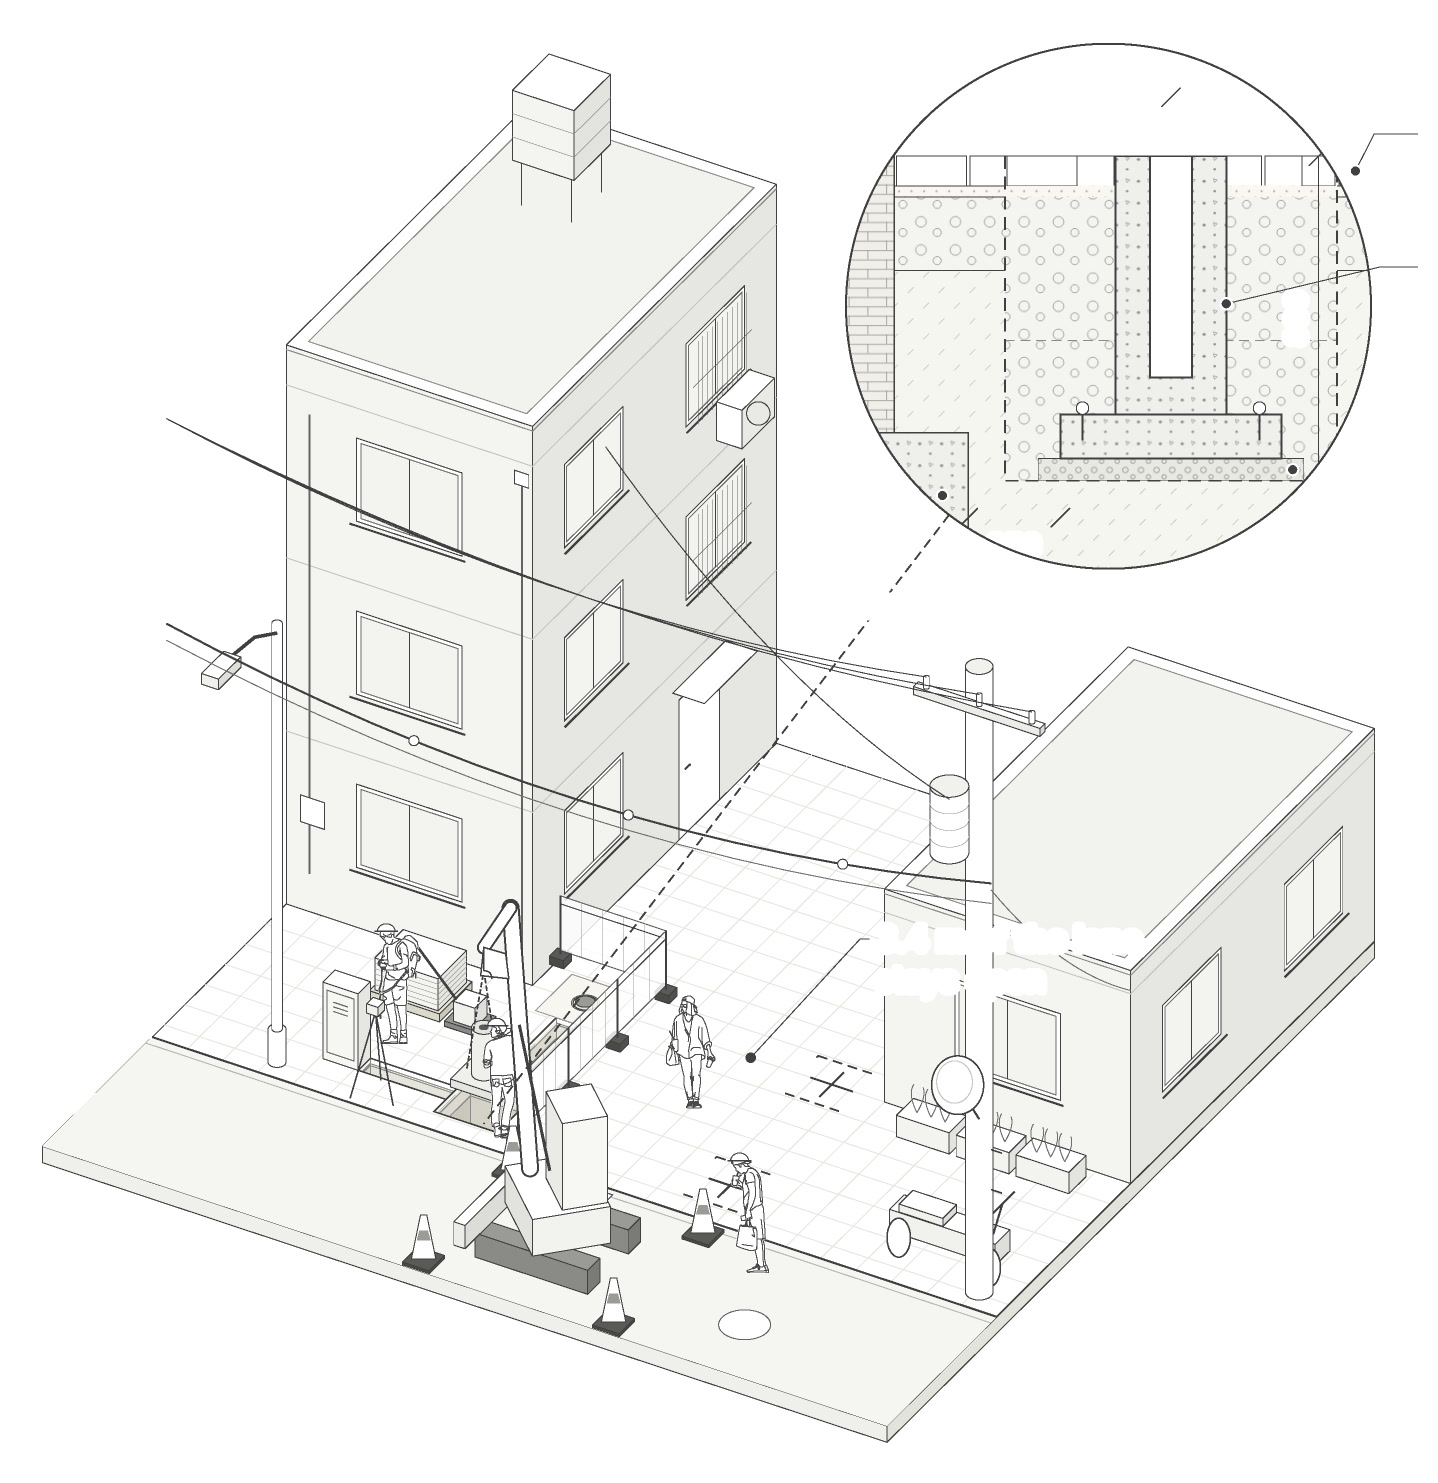
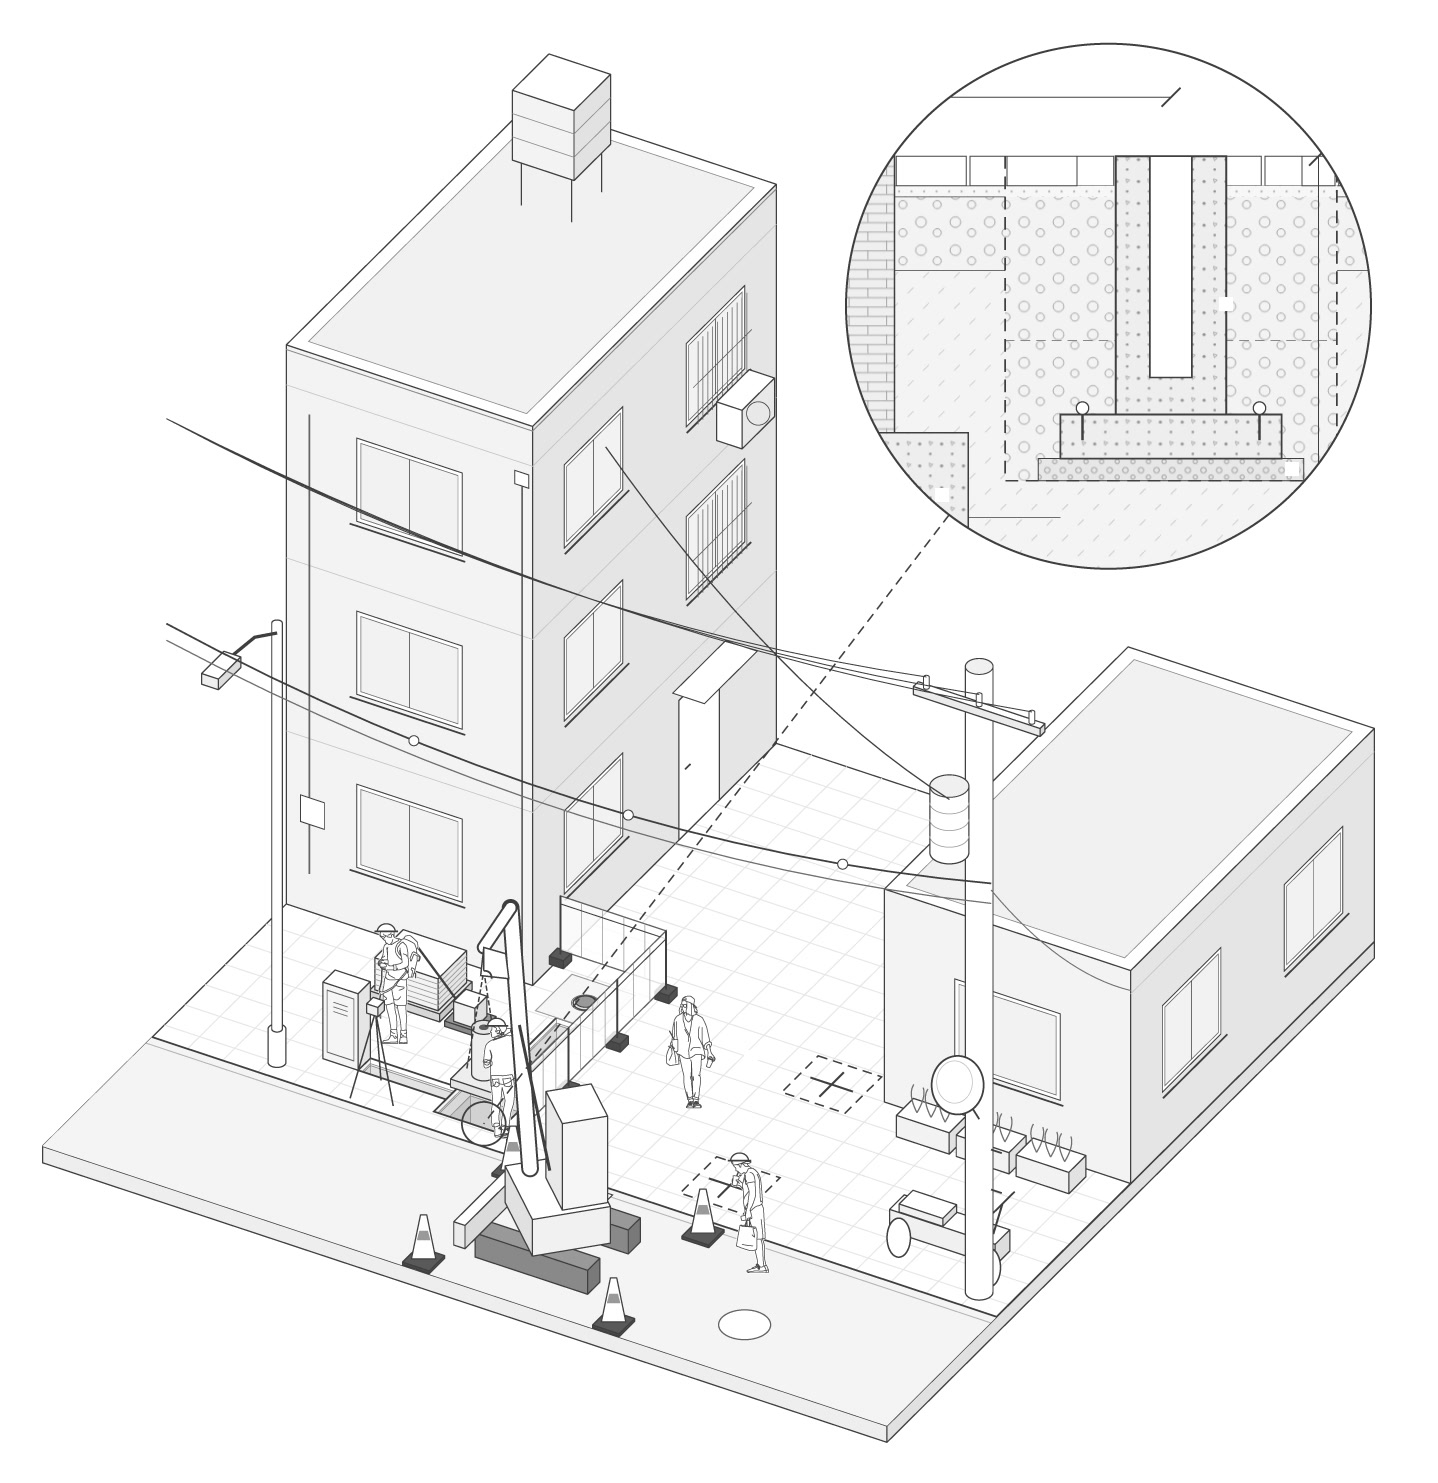
핀 #152–158 (SMART PIXEL) + 휴대폰 글자 축소: Four Modes 그림을 빼고 그 평면을 Gathering Rule 16기둥 엑소노 옆에 붙여 한 시뮬레이션으로(사양 표는 단계마다), 세 장면 한 줄, Plugged In 상세 섹션 삭제, 설치 6장면 원본에서 흰 글자 바탕·지시선·끝점 없이 다시 뽑고 조명색만 남김, 단면 A–A 80%, 휴대폰은 모든 --t-* 토큰 한 단계 작게

diff --git a/assets/js/data.js b/assets/js/data.js
@@ -1607,58 +1607,18 @@ const SITE = {
         "heading":"One Frame, Three Gestures","text":"The light column becomes architecture when it is joined. A lintel on two heads makes a gate; a row of gates under roof panels makes a corridor; a second tier on four cells makes a room. Same parts, same 2.5 m grid, all bolted, all removable — ten part types, about 2,300 pieces, nothing made for one place only.","images":[],"keyed":{"key":{"src":"assets/img/smart-pixel/frame-key.jpg","r":0.683,"caption":"The Pixel Frame — one 2.5 m cell, exploded in assembly order"},"items":[{"src":"assets/img/smart-pixel/lens-a.jpg","r":1,"t":"Head node and lintel joint","d":"Lintels slide over the arms, 2 × M12 each end; driver, board and cover lift out of the top.","x":83.3,"y":48.1,"notes":[["1","2 × M12 × 40"],["2","Lintel 100 × 160, LED + opal lens"],["3","Cover ø170, 4 × M6 pin-Torx"],["4","Gasket, EPDM"],["5","Controller + Bluetooth LE 5"],["6","Driver 30 W, 24 V"],["7","Arm 92 × 152, M12 bosses"],["8","Radar 24 GHz"]]},{"src":"assets/img/smart-pixel/lens-b.jpg","r":1,"t":"Light column","d":"Core, two LED lines, opal diffuser and mask; the diffuser slides off once the head is off.","x":64.8,"y":72.2,"notes":[["1","Mask, 180°"],["2","End ring"],["3","Spigot ø93, 2 × M8"],["4","Core ø101.6 × 4"],["5","Diffuser ø150, PC opal"],["6","LED 24 V, two lines"]]},{"src":"assets/img/smart-pixel/lens-c.jpg","r":1,"t":"Ground connection","d":"Plug, collar and lock pin on the cast-in sleeve; the socket stays when the pixel leaves.","x":64.8,"y":86.5,"notes":[["1","Lock pin M12 × 110"],["2","Collar ø170, hatch, QR"],["3","Plug IP68, 3-pole"],["4","Paving 200 × 100"],["5","Sleeve ø114.3"],["6","Socket shaft ø300"]]}]}
       },
       {
-        heading: "Point, Line, Volume", big: true,
+        heading: "Point, Line, Volume", big: true, cols: 3, // 핀 #153: 세 장면을 한 줄에
         text: "One column becomes a gate frame, a gate, a corridor and a room — scroll through the steps. The same ten standard parts, about 2,300 pieces in all, are counted for the Daerim 2-dong pilot: 620 sockets, 682 columns, 656 lintels, 280 roof panels. Below, the three gestures drawn at the same scale on a 12 × 12 m plot.",
         // 핀 #140: 다섯 단계 시뮬레이션 + 세 장면을 따로 크게(원본 03_frame.ai, 글자·지시선 없이), 치수·설명은 사이트 글자
         seq: {"kind":"frames","fade":true,"r":0.8085,"k":0.9,"steps":[{"src":"assets/img/smart-pixel/plv-1.jpg","t":"Column","s":"one pixel","d":"A socket set in the paving, one lit column, a head node on top — the smallest piece of the kit, on a 2.5 m grid.","k":[["In the pilot","682 columns"],["Sockets","620"]],"tags":[[3,5,"Point","","w"]]},{"src":"assets/img/smart-pixel/plv-2.jpg","t":"Gate frame","s":"+ lintel","d":"A lintel slides over two head nodes and two columns become a frame. 3.5 m across a gate, 2.5 m everywhere else.","k":[["Lintels","656"]],"tags":[[3,5,"Line","","w"]]},{"src":"assets/img/smart-pixel/plv-3.jpg","t":"Gate","s":"+ second tier","d":"A second tier stands on the head nodes: a portal 4.96 m high at the mouth of a deep lane.","k":[["Gates","11"],["Each","4 sockets · 8 columns · 6 lintels"]],"tags":[[3,5,"Line","","w"]]},{"src":"assets/img/smart-pixel/plv-4.jpg","t":"Corridor","s":"+ roof panels","d":"Two rows of frames carry roof panels over the stalls: 335 m along the market street. Seven lane lines (662 m) use the same frame without a roof.","k":[["Sockets · columns","270 · 270"],["Lintels · roof panels","268 · 268"]],"tags":[[3,5,"Line","","w"]]},{"src":"assets/img/smart-pixel/plv-5.jpg","t":"Room","s":"2 × 2 cells × 2 tiers","d":"Four cells on two tiers, with a grating floor, a mesh screen and guards: a small temporary building at a route node.","k":[["Rooms","3"],["Each","9 sockets · 15 columns · 19 lintels · 4 roof panels"],["Gratings · mesh · guards","2 · 2 · 4"]],"tags":[[3,5,"Volume","","w"]]}]},
         images: [{"src":"assets/img/smart-pixel/gesture-gate.jpg","r":1.0787,"tags":[[57.5,70.6,"4.96 m","",""],[36.5,79.3,"3.5 m c/c","",""],[48.3,86.7,"street","","m"]],"notes":[["01","Gate","Two piers on the pavement, 0.75 m in from the lane walls, joined at 4.96 m. Keeps 3.3 m clear for deliveries and fire access; carries the lane name, a bench and an SOS button."]]},{"src":"assets/img/smart-pixel/gesture-corr.jpg","r":1.0787,"tags":[[97.3,78.7,"3.0 m open to the sky","r",""],[15.4,81.6,"2.5 m","",""],[99,83.8,"8.0 m between shopfronts","r",""],[36.5,84.4,"near-side shopfront, cut away","","m"]],"notes":[["02","Corridor","Two colonnades 5.5 m apart replace the patchwork awnings. Panels shade the stalls by day; after closing at 20:30 the lintels light the 8 m street, 3 m of it open to the sky."]]},{"src":"assets/img/smart-pixel/gesture-room.jpg","r":1.0787,"tags":[[61.7,70.3,"4.96 m","",""],[39.2,78,"5.0 m","",""],[44.4,88.2,"pocket park","","m"]],"notes":[["03","Room","2 × 2 cells on two tiers: a table below, a lit lantern above with the mesh screen. A temporary building (max. 3 years, renewable) — the neighbourhood can keep it, move it or return it."]]}]
       },
       {
-        heading: "The Gathering Rule",
-        text: "Light is switched on only by the people who are there. The number of people sets the size of the space — and when everyone leaves, or after 23:00, it falls back to the default.",
+        heading: "The Gathering Rule", big: true,
+        text: "Light is switched on only by the people who are there. The number of people sets the size of the space — scroll from nobody to a group of four: the plan on the left, the same 16 pixels on the right, and below what is lit, who it needs and when it runs. Every mode keeps the light at residents' windows at or below 10 lx, the limit for residential zones; when everyone leaves, or after 23:00, it falls back to the default.",
+        // 핀 #152: 평면(원본 05_program) + 16기둥 엑소노를 한 장면에, Four Modes 사양 표를 단계마다
         images: [],
-        seq: {
-          below: true,
-          kind: "frames",
-          r: 1.38, // 핀 #101: 원본 .ai에서 글자 없이 300ppi로 다시, 조금 작게(k 1.15 → 0.92)
-          lite: true,
-          fade: true,
-          k: 0.92,
-          steps: [
-            {
-              tags: [[13.2, 80.5, "2.5 m", "c", ""]],
-              src: "assets/img/smart-pixel/rule-0.jpg",
-              t: "00 Default",
-              s: "CPTED state · nobody gathered",
-              d: "Every pixel glows low through the night and brightens as someone walks past. 16 pixels, low."
-            },
-            {
-              src: "assets/img/smart-pixel/rule-1.jpg",
-              t: "01 Column",
-              s: "point · 1 person",
-              d: "Check in on site and the column next to you turns bright. 1 pixel, full."
-            },
-            {
-              src: "assets/img/smart-pixel/rule-2.jpg",
-              t: "02 Wall",
-              s: "line · 2 people",
-              d: "Two neighbours pull the mesh screen between their columns: a lit surface. 2 pixels and a screen."
-            },
-            {
-              src: "assets/img/smart-pixel/rule-3.jpg",
-              t: "03 Space",
-              s: "volume · 4 people",
-              d: "Four corners light up, the canopy is rigged and the furniture box opens. 4 pixels and a canopy."
-            }
-          ]
-        }
-      },
-      {
-        heading: "One Kit, Four Modes", big: true,
-        text: "Each mode is the same columns doing more as more people gather — scroll from nobody to a group of four: what is lit, who it needs, when it runs. Every mode keeps the light at residents' windows at or below 10 lx, the limit for residential zones; after 23:00 only CPTED runs.",
-        // 핀 #141: 네 모드 단계 시뮬레이션(원본 05_program.ai, 글자·지시선 없이) — 그림 속 이름표와 사양은 사이트 글자
-        seq: {"kind":"frames","fade":true,"below":true,"r":3.2558,"steps":[{"src":"assets/img/smart-pixel/mode-0.jpg","t":"00 CPTED","s":"default state · nobody gathered","d":"Runs by itself from dusk to dawn: every pixel low, rising to 100 % as you pass. Used for the walk home from the station, a lit and watched corner at 2 am, and SOS — the cluster flashes.","k":[["People","none: runs by itself"],["Pixels lit","all, low"],["Output","20 % → 100 % as you pass"],["Colour","2700 K warm white"],["Sensors","radar in the column head"],["Alarm","flashes on an Ansimi app SOS"],["Runs","dusk to dawn"]],"tags":[[74.5,37.4,"radar in the head\nbrightens on approach","","nl w1"],[84.2,51.1,"20 %\nthe rest of the night","","nl w1"],[42.5,64.2,"100 %\nas you pass","r","nl w1"],[1.5,4,"Plan","","m"],[36,4,"Axonometric","","m"]]},{"src":"assets/img/smart-pixel/mode-1.jpg","t":"01 Column","s":"point · 1 person","d":"One person checks in and the pixel next to them lights up. For waiting for someone, a short phone-free talk, walking the dog.","k":[["People","1, checked in on site"],["Pixels lit","1, next to you"],["Output","100 %"],["Colour","2700–4000 K, user set"],["Check-in","Bluetooth, within 3 m"],["Hold","while you stay, 10 min after"],["Runs","18:00–24:00"]],"tags":[[53.1,37.8,"head: Bluetooth + radar\naluminium, H 160","r","nl w1"],[51.3,68.1,"ø150 diffuser tube\npolycarbonate, LED inside","r","nl w1"],[77.6,91.3,"socket ø300\npower, data, anchor","","nl w1"],[1.5,4,"Plan","","m"],[36,4,"Axonometric","","m"]]},{"src":"assets/img/smart-pixel/mode-2.jpg","t":"02 Wall","s":"line · 2+ people","d":"Two neighbouring pixels pull a mesh screen between them. A neighbourhood film night, kids' drawings on the screen, a quiet backdrop for a stall.","k":[["People","2+, at neighbouring pixels"],["Pixels lit","2 + mesh screen"],["Screen","2.35 × 1.90 m, pulled by hand"],["Image","edge-lit, or projector in head"],["Set-up","unroll, clip to the next column"],["Sound","none"],["Runs","18:00–22:00"]],"tags":[[73.8,34.4,"mesh screen 2.35 × 1.90 m\nrolled inside the column","","nl w1"],[44.6,64.7,"clip\nto the next column","r","nl w1"],[1.5,4,"Plan","","m"],[36,4,"Axonometric","","m"]]},{"src":"assets/img/smart-pixel/mode-3.jpg","t":"03 Space","s":"volume · 4+ people","d":"Four corners of a cell light up under a string-light canopy, with a table and stools from the furniture box. A neighbour dinner, a study circle, the night-market table.","k":[["People","4+, one booking in the app"],["Pixels lit","4 corners of a cell"],["Canopy","2.5 × 2.5 m string lights, H 2.4 m"],["Furniture","box: 1 table, 4 stools"],["Set-up","15 min, by the group"],["Return","pack the box to sign out"],["Runs","18:00–22:00, Fri–Sat to 23:00"]],"tags":[[80.6,16.7,"string-light canopy\n2.5 × 2.5 m, from the heads","","nl w1"],[82,76.1,"furniture box\ntable + 4 stools","","nl w1"],[1.5,4,"Plan","","m"],[36,4,"Axonometric","","m"]]}]},
-        images: []
+        seq: {"kind":"frames","fade":true,"below":true,"r":2.2143,"steps":[{"src":"assets/img/smart-pixel/rule-0.jpg","t":"00 Default","s":"CPTED state · nobody gathered","d":"Runs by itself from dusk to dawn: every pixel low, rising to 100 % as you pass. Used for the walk home from the station, a lit and watched corner at 2 am, and SOS — the cluster flashes.","k":[["People","none: runs by itself"],["Pixels lit","all, low"],["Output","20 % → 100 % as you pass"],["Colour","2700 K warm white"],["Sensors","radar in the column head"],["Alarm","flashes on an Ansimi app SOS"],["Runs","dusk to dawn"]],"tags":[[1.6,4,"Plan","","m"],[38.3,4,"Axonometric — 16 pixels, 2.5 m grid","","m"],[45.9,80.5,"2.5 m","c",""]]},{"src":"assets/img/smart-pixel/rule-1.jpg","t":"01 Column","s":"point · 1 person","d":"One person checks in and the pixel next to them lights up. For waiting for someone, a short phone-free talk, walking the dog.","k":[["People","1, checked in on site"],["Pixels lit","1, next to you"],["Output","100 %"],["Colour","2700–4000 K, user set"],["Check-in","Bluetooth, within 3 m"],["Hold","while you stay, 10 min after"],["Runs","18:00–24:00"]],"tags":[[1.6,4,"Plan","","m"],[38.3,4,"Axonometric — 16 pixels, 2.5 m grid","","m"]]},{"src":"assets/img/smart-pixel/rule-2.jpg","t":"02 Wall","s":"line · 2 people","d":"Two neighbouring pixels pull a mesh screen between them. A neighbourhood film night, kids' drawings on the screen, a quiet backdrop for a stall.","k":[["People","2+, at neighbouring pixels"],["Pixels lit","2 + mesh screen"],["Screen","2.35 × 1.90 m, pulled by hand"],["Image","edge-lit, or projector in head"],["Set-up","unroll, clip to the next column"],["Sound","none"],["Runs","18:00–22:00"]],"tags":[[1.6,4,"Plan","","m"],[38.3,4,"Axonometric — 16 pixels, 2.5 m grid","","m"]]},{"src":"assets/img/smart-pixel/rule-3.jpg","t":"03 Space","s":"volume · 4 people","d":"Four corners of a cell light up under a string-light canopy, with a table and stools from the furniture box. A neighbour dinner, a study circle, the night-market table.","k":[["People","4+, one booking in the app"],["Pixels lit","4 corners of a cell"],["Canopy","2.5 × 2.5 m string lights, H 2.4 m"],["Furniture","box: 1 table, 4 stools"],["Set-up","15 min, by the group"],["Return","pack the box to sign out"],["Runs","18:00–22:00, Fri–Sat to 23:00"]],"tags":[[1.6,4,"Plan","","m"],[38.3,4,"Axonometric — 16 pixels, 2.5 m grid","","m"]]}]}
       },
       {
         heading: "Under the Corridor at 21:00", big: true,
@@ -1668,15 +1628,9 @@ const SITE = {
             src: "assets/img/smart-pixel/section-aa.jpg",
             caption: "Section A–A — Digital-ro 37na-gil at 21:00, perspective beyond the cut",
             r: 1.291,
-            w: "100%" // 핀 #149: 화면 높이에 맞춰 줄지 않고 섹션 폭 전체로
+            w: "80%" // 핀 #149 전체 폭 → 핀 #158 조금 작게
           }
         ]
-      },
-      {
-        heading: "Plugged In, Bolted On, Lifted Out", big: true,
-        text: "Nothing is cast on site: the socket is precast. A column drops into it and is pinned; a node on top takes up to four lintels and a roof panel. Every joint opens with one spanner, so a gate can leave a lane as easily as it came.",
-        // 핀 #143: 원본 08_detail.ai 상세 1–5, 글자·지시선 없이 — 번호 점·이름·치수는 사이트 글자
-        images: [{"src":"assets/img/smart-pixel/detail-d1.jpg","caption":"1 Head node and lintels — 1:5, along the street through the column axis","r":1.528,"lead":26,"ln":true,"tags":[[85.6,20.3,"01","c pt"],[88.2,27.4,"02","c pt"],[64.5,34.4,"03","c pt"],[56.9,34.7,"04","c pt"],[92.4,35.5,"05","c pt"],[79.7,42.9,"06","c pt"],[91.5,53.5,"07","c pt"],[54.3,58.4,"08","c pt"],[55.7,72.7,"09","c pt"],[56.5,84.3,"10","c pt"],[58.2,89.4,"11","c pt"],[51.8,97,"ø170","c","m"],[36.5,8.5,"upper column, gates only","c","m"]],"notes":[["01","Hammer-head bolt M10","in the lintel T-slot (see 2)"],["02","Panel frame 50 × 100 × 3","sits on the lintels"],["03","2 × M12 per arm","bolted from above"],["04","Cover plate, 4 × M6","opens the driver bay"],["05","Lintel 100 × 160 × 3","sleeved over the arm"],["06","Arm 92 × 152","cast with the node"],["07","LED strip + opal lens","on the lintel underside"],["08","LED driver 24 V, 30 W","in a sealed bay"],["09","Spigot ø93","2 × M8 grub screws"],["10","Column LED, 2 × 2.5 W",""],["11","Diffuser ø150","opal polycarbonate"]]},{"src":"assets/img/smart-pixel/detail-d2.jpg","caption":"2 Lintel extrusion — 1:2, cross-section","r":0.79,"lead":26,"ln":true,"tags":[[59.9,13.7,"01","c pt"],[77,15,"02","c pt"],[70.1,20.2,"03","c pt"],[79.2,29.8,"04","c pt"],[83.9,36.7,"05","c pt"],[63.8,42,"06","c pt"],[77,55,"07","c pt"],[64.9,60.5,"08","c pt"],[74.5,82.9,"09","c pt"],[67.1,84.6,"10","c pt"],[57,3.5,"100","c","m"],[3.8,50.7,"160","c","m"],[17,20.6,"22","c","m"],[17,41.6,"74","c","m"],[17,71.6,"64","c","m"],[44,95,"34°","c","m"],[70,95,"34°","c","m"]],"notes":[["01","Hammer-head bolt M10","to the panel frame"],["02","EPDM pad 4",""],["03","T-slot, 16 mm mouth","runs the full length"],["04","Screw boss","for the end cap"],["05","Wall 3","aluminium 6063-T6"],["06","Cable chamber","3 × 1.5 mm²"],["07","Heat-sink web 4","with fins"],["08","LED board","24 V, 2700 K"],["09","Lens clip groove",""],["10","Opal lens","clipped, no screws"]]},{"src":"assets/img/smart-pixel/detail-d3.jpg","caption":"3 Socket at street level — 1:10, plan cut at +100","r":1.05,"lead":26,"ln":true,"tags":[[19.9,14.9,"01","c pt"],[33.2,34.5,"02","c pt"],[59.1,38.9,"03","c pt"],[47.1,39,"04","c pt"],[58,48.3,"05","c pt"],[21,48.3,"06","c pt"],[73.2,52.1,"07","c pt"],[43.2,53.3,"08","c pt"],[55.8,54.3,"09","c pt"],[92.8,77.8,"10","c pt"],[14.5,81.2,"11","c pt"],[33.8,1.5,"65","c","m"],[47.8,1.5,"ø170","c","m"],[61.5,1.5,"65","c","m"],[47,97.5,"600 base, below","c","m"]],"notes":[["01","Block paving 200 × 100 × 80",""],["02","Mortar ring","blocks cut to fit"],["03","Precast collar ø300","C35/45"],["04","Tamper-proof screw",""],["05","Lock pin M12","capped"],["06","Lifting anchor","cast in, two"],["07","Supply elbow PE ø50","cast in"],["08","Core ø101.6","in sleeve ø114.3"],["09","Base collar ø170","aluminium"],["10","Feeder duct","along the colonnade"],["11","Socket base 600 × 600","hidden below"]]},{"src":"assets/img/smart-pixel/detail-d4.jpg","caption":"4 Roof panel, open edge — 1:5, across the street","r":1.241,"lead":26,"ln":true,"tags":[[71.8,25.3,"01","c pt"],[45,27.9,"02","c pt"],[62.9,33.1,"03","c pt"],[52.4,37.8,"04","c pt"],[73.2,37.8,"05","c pt"],[74.7,51.4,"06","c pt"],[79.5,68.9,"07","c pt"],[49.5,1.5,"125","c","m"],[65,1.5,"50","c","m"],[98.5,19,"100","r","m"],[98.5,46.5,"62","r","m"],[4,4.5,"2 % fall to the open edge","","m"]],"notes":[["01","End cap with drip","riveted"],["02","Louvre 70 × 4 at 45°","clipped to the rail"],["03","Edge member 50 × 100 × 3","aluminium"],["04","Side rail beyond",""],["05","Bracket every 600","2 × M6"],["06","Gutter 60 × 60","aluminium 1.5"],["07","Rain chain","to the splash grate"]]},{"src":"assets/img/smart-pixel/detail-d5.jpg","caption":"5 Power and control — one line: how a lane answers a passer-by","r":1.639,"lead":26,"ln":true,"tags":[[46.5,6,"01","c pt"],[73.9,9,"02","c pt"],[6,23.8,"03","c pt"],[49.9,24.8,"04","c pt"],[15.2,45.8,"05","c pt"],[19,36,"60 %","c","m"],[55.6,36,"100 %","c","m"],[92.2,36,"60 %","c","m"],[15.3,69.5,"pass","c","m"],[42.7,71.8,"hold 40 s after the last pass · 31 lx","c","m"],[42.7,80.6,"2 columns either side, 60 %","c","m"],[79.4,83.3,"fade 5 s","","m"],[93,88.6,"20 %, 6 lx","c","m"],[1,75,"100 %","","m"],[1,83.5,"60 %","","m"],[1,92,"20 %","","m"],[15.3,99,"0","c","m"],[29,99,"10","c","m"],[42.7,99,"20","c","m"],[56.4,99,"30","c","m"],[70,99,"40","c","m"],[83.9,99,"50","c","m"],[97.7,99,"60 s","c","m"]],"notes":[["01","BLE mesh","2.5 m hops"],["02","Node","24 V driver, radar 24 GHz, BLE"],["03","Sub-board on the street-lamp feeder","7 × MCB 10 A, RCD 30 mA, astro timer, LTE"],["04","Radar sees a pass",""],["05","Feeder 230 V, 3 × 2.5 mm² in PE ø50","about 58 columns a circuit"]]}]
       },
       {
         heading: "Checks",

diff --git a/assets/css/site.css b/assets/css/site.css
@@ -689,7 +689,8 @@ h1, h2, h3 { font-weight: 400; text-wrap: balance; }
 @media (max-width: 760px) {
   /* 휴대폰: 4칸 그리드, 고정 장면은 일반 목록으로 */
   /* 휴대폰 글자 크기: 큰 글자 토큰을 한 단계씩 줄여요 (핀 #39) */
-  :root { --t-l: 13px; --t-xl: 14.5px; --t-xxl: 20px; }
+  /* 2026-11-23 사용자 요청: 휴대폰은 모든 글자 토큰을 한 단계 더 작게 */
+  :root { --t-xs: 9px; --t-s: 9.5px; --t-m: 11px; --t-l: 12px; --t-xl: 13px; --t-xxl: 17px; }
   .g8 { grid-template-columns: repeat(4, minmax(0, 1fr)); }
   .g8 > * { grid-column: 1 / -1; padding-left: var(--e); }
   .hdr > .logo { grid-column: 1 / span 2; }
